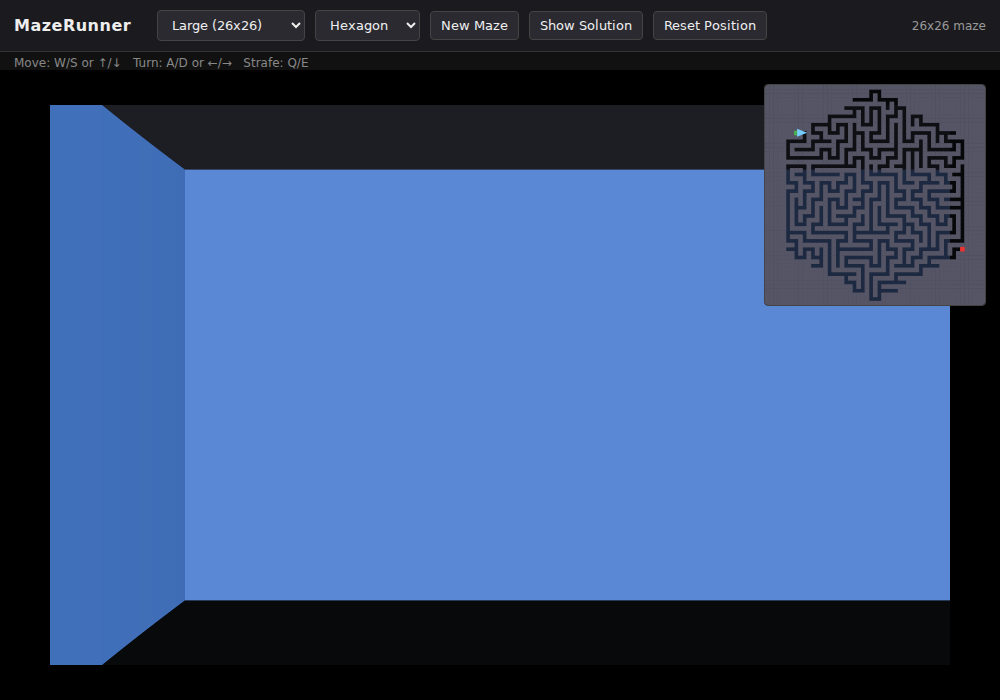
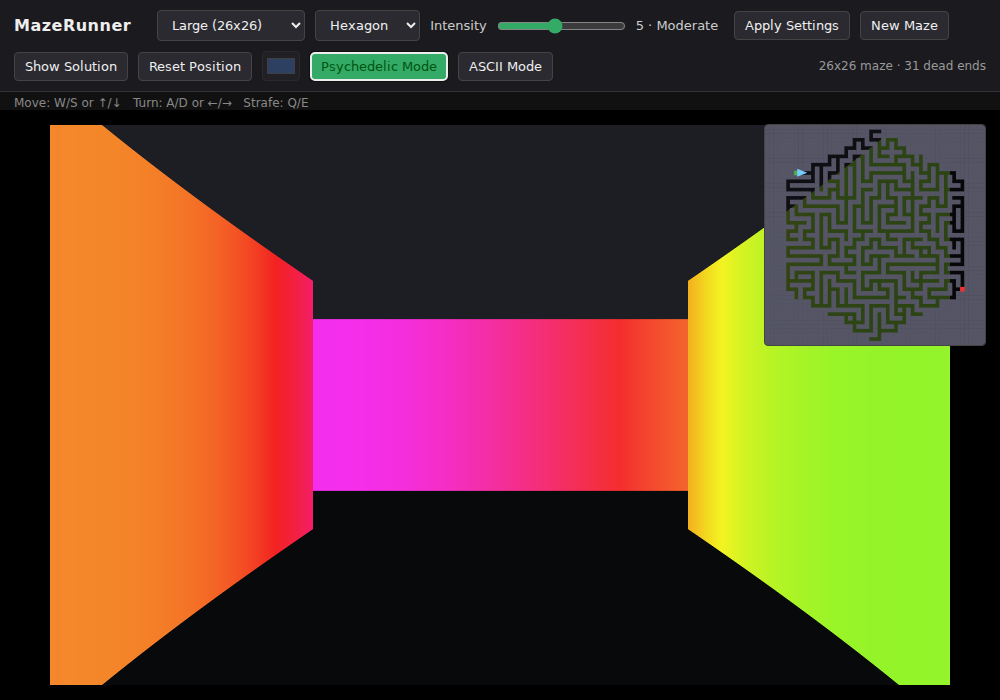
Update README screenshot to show Psychedelic Mode
Claude-Session: https://claude.ai/code/session_019xawxYmY35wZRtaz2pqLcY

diff --git a/README.md b/README.md
@@ -7,7 +7,7 @@ A small, dependency-free web maze generator, solver, and first-person walker.
 
 Or open `index.html` in a browser directly — no build step, no server, no npm.
 
-<img src="screenshots/screenshot.png" alt="MazeRunner: first-person raycast view of a hexagon-shaped maze, with the minimap and solution path shown in the corner" width="640">
+<img src="screenshots/screenshot.png" alt="MazeRunner: first-person raycast view of a hexagon-shaped maze in Psychedelic Mode, walls flowing through vivid animated colors, with the minimap shown in the corner" width="640">
 
 - **Generator**: recursive-backtracker algorithm, four size presets
 - **Shape**: Square, Circle, Triangle, or a regular Pentagon through Decagon — the maze is carved
